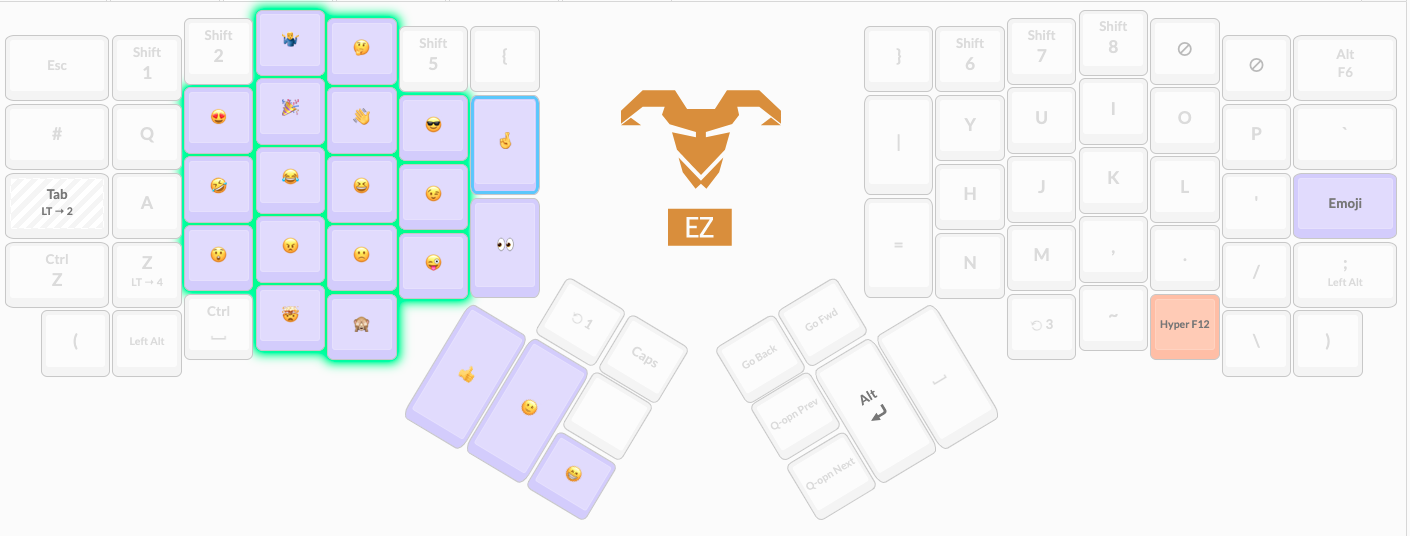
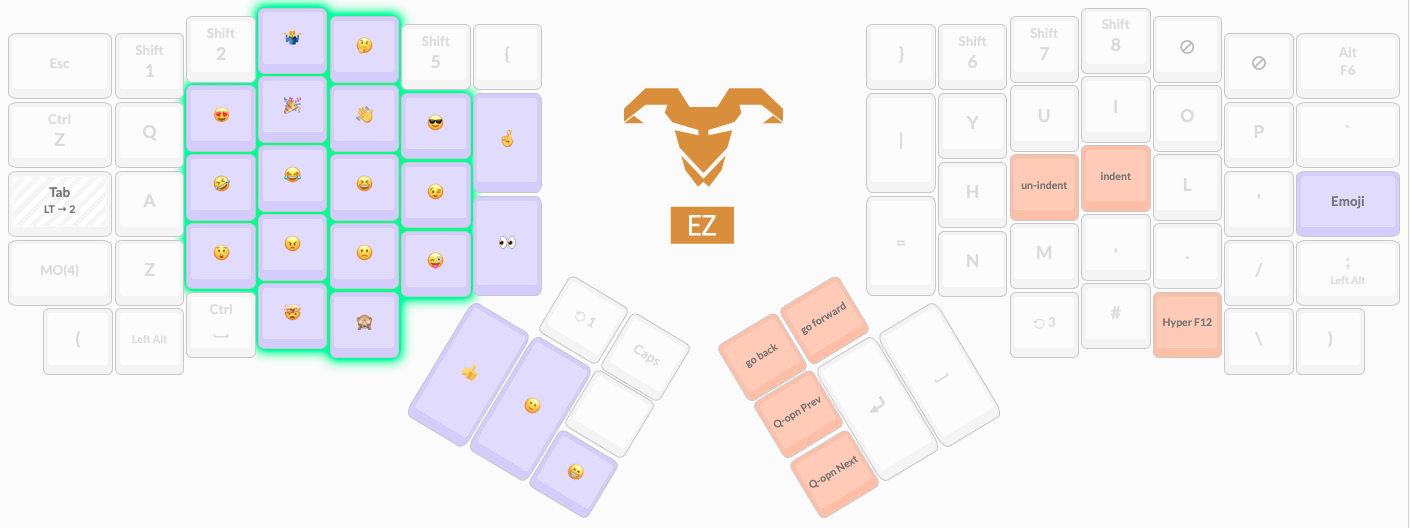
arrow keys on layer0, update docs

diff --git a/keyboards/ergodox_ez/keymaps/stoneman/keymap.c b/keyboards/ergodox_ez/keymaps/stoneman/keymap.c
@@ -17,6 +17,10 @@
 #define KC_HYPER_F13 LALT(LCTL(LGUI(LSFT(KC_F13))))
 #define KC_HYPER_F14 LALT(LCTL(LGUI(LSFT(KC_F14))))
 #define KC_HYPER_F15 LALT(LCTL(LGUI(LSFT(KC_F15))))
+#define KC_GO_BACK LALT(LGUI(LSFT(KC_LEFT)))
+#define KC_GO_FWD LALT(LGUI(LSFT(KC_RIGHT)))
+#define KC_UNINDENT LCTL(LALT(LGUI(LSFT(KC_LEFT))))
+#define KC_INDENT LCTL(LALT(LGUI(LSFT(KC_RIGHT))))
 
 enum custom_keycodes {
     ALT_TAB = SAFE_RANGE,
@@ -59,9 +63,9 @@ const uint16_t PROGMEM keymaps[][MATRIX_ROWS][MATRIX_COLS] = {
     LT(2,KC_TAB),   KC_A,           KC_S,           KC_D,           KC_F,           KC_G,                                                                           KC_H,           KC_J,           KC_K,           KC_L,           KC_QUOTE,       LGUI_T(KC_MINUS),
     MO_4,           KC_Z,           KC_X,           KC_C,           KC_V,           KC_B,           KC_NONUS_TILD,                                  KC_EQUAL,       KC_N,           KC_M,           KC_COMMA,       KC_DOT,         KC_SLASH,       LALT_T(KC_SCOLON),
     KC_LPRN,        KC_LALT,        LCTL(KC_SPACE), KC_LGUI,        KC_LCTRL,                                                                                                       MO(3),          KC_LALT_HASH,  KC_HYPER_F10,    KC_NONUS_BSLASH,KC_RPRN,
-                                                                                                    MO(1),          KC_CAPSLOCK,    LALT(LGUI(LSFT(KC_LEFT))),LALT(LGUI(LSFT(KC_RIGHT))),
-                                                                                                                    KC_TRANSPARENT, KC_F16,
-                                                                                    KC_LSHIFT,      KC_BSPACE,      KC_DELETE,      KC_F17,         KC_ENTER,       KC_SPACE
+                                                                                                    MO(1),          KC_CAPSLOCK,    KC_LEFT,        KC_RIGHT,
+                                                                                                                    KC_TRANSPARENT, KC_UP,
+                                                                                    KC_LSHIFT,      KC_BSPACE,      KC_DELETE,      KC_DOWN,        KC_ENTER,       KC_SPACE
   ),
   [1] = LAYOUT_ergodox_pretty(
     RESET,          KC_F1,          KC_F2,          KC_F3,          KC_F4,          KC_F5,          LALT(KC_PSCREEN),                               KC_TRANSPARENT, KC_F6,          KC_F7,          KC_F8,          KC_F9,          KC_F10,         KC_F11,
@@ -76,12 +80,12 @@ const uint16_t PROGMEM keymaps[][MATRIX_ROWS][MATRIX_COLS] = {
   [2] = LAYOUT_ergodox_pretty(
     KC_TRANSPARENT, KC_TRANSPARENT, KC_TRANSPARENT, EMOJI_SHRUG,    EMOJI_THINKING, KC_TRANSPARENT, KC_TRANSPARENT,                                 KC_TRANSPARENT, KC_TRANSPARENT, KC_TRANSPARENT, KC_TRANSPARENT, KC_TRANSPARENT, KC_TRANSPARENT, KC_TRANSPARENT,
     KC_TRANSPARENT, KC_TRANSPARENT, EMOJI_HEARTS,   EMOJI_TADA,     EMOJI_WAVE,     EMOJI_COOL,     EMOJI_FINGERS_X,                                KC_TRANSPARENT, KC_TRANSPARENT, KC_TRANSPARENT, KC_TRANSPARENT, KC_TRANSPARENT, KC_TRANSPARENT, KC_TRANSPARENT,
-    KC_TRANSPARENT, KC_TRANSPARENT, EMOJI_ROFL,     EMOJI_JOY,      EMOJI_LAUGH,    EMOJI_WINK,                                                                     KC_TRANSPARENT, KC_TRANSPARENT, KC_TRANSPARENT, KC_TRANSPARENT, KC_TRANSPARENT, KC_EMOJI,
+    KC_TRANSPARENT, KC_TRANSPARENT, EMOJI_ROFL,     EMOJI_JOY,      EMOJI_LAUGH,    EMOJI_WINK,                                                                     KC_TRANSPARENT, KC_UNINDENT,    KC_TRANSPARENT, KC_INDENT,      KC_TRANSPARENT, KC_EMOJI,
     KC_TRANSPARENT, KC_TRANSPARENT, EMOJI_SHOCK,    EMOJI_ANGRY,    EMOJI_SAD,      EMOJI_WINKTNG,  EMOJI_EYES,                                     KC_TRANSPARENT, KC_TRANSPARENT, KC_TRANSPARENT, KC_TRANSPARENT, KC_TRANSPARENT, KC_TRANSPARENT, KC_TRANSPARENT,
     KC_TRANSPARENT, KC_TRANSPARENT, KC_TRANSPARENT, EMOJI_MINDBLO,  EMOJI_SEENOEVIL,                                                                                                KC_TRANSPARENT, KC_TRANSPARENT, KC_HYPER_F12,   KC_TRANSPARENT, KC_TRANSPARENT,
-                                                                                                    KC_TRANSPARENT, KC_TRANSPARENT, KC_TRANSPARENT, KC_TRANSPARENT,
-                                                                                                                    KC_TRANSPARENT, KC_TRANSPARENT,
-                                                                                    EMOJI_THUMBS_UP,EMOJI_SMILE,    EMOJI_GRIN,     KC_TRANSPARENT, LALT(KC_ENTER), KC_TRANSPARENT
+                                                                                                    KC_TRANSPARENT, KC_TRANSPARENT, KC_GO_BACK,     KC_GO_FWD,
+                                                                                                                    KC_TRANSPARENT, KC_F16,
+                                                                                    EMOJI_THUMBS_UP,EMOJI_SMILE,    EMOJI_GRIN,     KC_F17,         KC_TRANSPARENT, KC_TRANSPARENT
   ),
   [3] = LAYOUT_ergodox_pretty(
     KC_TRANSPARENT, KC_1,           KC_2,           KC_3,           KC_4,           KC_5,           KC_TRANSPARENT,                                 KC_TRANSPARENT, KC_6,           KC_7,           KC_8,           KC_9,           KC_0,           KC_TRANSPARENT,
@@ -96,7 +100,7 @@ const uint16_t PROGMEM keymaps[][MATRIX_ROWS][MATRIX_COLS] = {
   [4] = LAYOUT_ergodox_pretty(
     KC_TRANSPARENT, KC_TRANSPARENT, KC_TRANSPARENT, KC_TRANSPARENT, KC_TRANSPARENT, KC_TRANSPARENT, KC_TRANSPARENT,                                 KC_TRANSPARENT, KC_TRANSPARENT, KC_TRANSPARENT, KC_TRANSPARENT, KC_TRANSPARENT, KC_TRANSPARENT, KC_TRANSPARENT,
     KC_TRANSPARENT, KC_TRANSPARENT, KC_TRANSPARENT, KC_TRANSPARENT, KC_TRANSPARENT, KC_TRANSPARENT, KC_HOME,                                        KC_PGUP,        KC_TRANSPARENT, KC_TRANSPARENT, KC_UP,          KC_TRANSPARENT, KC_TRANSPARENT, KC_TRANSPARENT,
-    KC_TRANSPARENT, KC_TRANSPARENT, KC_TRANSPARENT, ALT_SHIFT_GRV,  ALT_GRV,        KC_TRANSPARENT,                                                                 LGUI(KC_LEFT),  KC_LEFT,        KC_DOWN,        KC_RIGHT,       LGUI(KC_RIGHT), KC_TRANSPARENT,
+    KC_TRANSPARENT, KC_TRANSPARENT, KC_TRANSPARENT, ALT_SHIFT_GRV,  ALT_GRV,        KC_TRANSPARENT,                                                                 KC_TRANSPARENT, KC_LEFT,        KC_DOWN,        KC_RIGHT,       KC_TRANSPARENT, KC_TRANSPARENT,
     KC_TRANSPARENT, MACRO_CHZ,      KC_TRANSPARENT, ALT_SHIFT_TAB,  ALT_TAB,        KC_TRANSPARENT, KC_END,                                         KC_PGDOWN,      KC_TRANSPARENT, KC_TRANSPARENT, KC_TRANSPARENT, KC_TRANSPARENT, KC_TRANSPARENT, KC_TRANSPARENT,
     KC_TRANSPARENT, KC_TRANSPARENT, KC_TRANSPARENT, KC_TRANSPARENT, KC_TRANSPARENT,                                                                                                 KC_LALT,        KC_TRANSPARENT, KC_HYPER_F14,   KC_TRANSPARENT, KC_TRANSPARENT,
                                                                                                     KC_TRANSPARENT, KC_TRANSPARENT, KC_TRANSPARENT, KC_TRANSPARENT,

diff --git a/readme.md b/readme.md
@@ -28,6 +28,8 @@ The source for my layout can be found within: [keyboards/ergodox_ez/keymaps/ston
           - `left_command` to `left_control`
           - `left_control` to `left_command`
   - [`Raw HID`](https://docs.qmk.fm/#/feature_rawhid) is used by my [Mac Daemon](https://github.com/stoneman/micmon) to set RGB key animation when [Zoom](https://zoom.us/) is running to remind me to position/switch on my mic.
+  - [AutoHotkey](https://www.autohotkey.com/) on Windows converts `Alt+Left` and `Alt+Right` to `Ctrl+Left` and `Ctrl+Right` for moving the cursor back/forward one word, which matches the Mac behaviour.
+  - AutoHotkey on Windows converts `Ctrl+Left` and `Ctrl+Right` to `Home` and `End` for moving the cursor to the start/end of the line, which matches the Mac behaviour.
       
 ### Layer 0 - Main
 
@@ -40,12 +42,10 @@ Key LEDs are a light purple in the center of the key pads fading out to a cool b
  - `Alt+F6` is `Mute Mic` for Zoom on the Mac and [Discord](https://discordapp.com/) on the PC.
  - When holding `; / Left Alt`, `Alt+F6` becomes the `Layer 5` key.
  - The top row numbers are "shifted" by default, except for the keys in position `9` and `0` which are `[` and `]`. When `Shift` is held, the top row numbers revert to their digit values.
- - The `ALT↯TAB` and `ALT↯+TAB` keys are used for switching windows, natively on Windows and using [Alt-Tab](https://github.com/lwouis/alt-tab-macos) on the Mac.
- - Alt-Tab on the Mac also uses the `ALT↯GRV` and `ALT↯+GRV` keys to cycle through windows of the currently focused window.
  - The `Caps Lock` key delays it's release by 200ms. This is because MacOS assumes you were only joking if you tap it too quickly (seriously 🤦)
  - `Ctrl+Z` - Undo, it's so nice having a key for this.
- - The `Enter` key on this left hand cluster is handy when my right hand is on the mouse.
  - `Ctrl+Space` is the Mac Spotlight hotkey.
+ - `Hyper F10` - is the hotkey assigned to [Doxaid](https://github.com/stoneman/doxaid) which displays a layout map for the currently active layout.
  
 ### Layer 1 - Func
 
@@ -69,10 +69,9 @@ Emoji and more keys that I occasionally want when Layer 0 is active.
 
 LEDs highlight groups of keys which perform a similar function.
 
-![Layer 2](images/layer_2.png)
+![Layer 2](images/layer_2.png)🙈
 
  - `Ctrl+Cmd+Space` is the MacOS emoji hotkey. AutoHotkey on the PC maps it to the Windows emoji hotkey (`Win+.`).
- - `Alt+Enter` saves stretching for the `Alt` and `Enter` keys with Layer 0.
  - For the Unicode input to work on both Windows and Mac, I have:
     - [WinCompose](https://github.com/samhocevar/wincompose) running on Windows.
     - The `Unicode Hex Input` keyboard layout enabled on the Mac.
@@ -80,10 +79,14 @@ LEDs highlight groups of keys which perform a similar function.
     - Code which sets the Unicode format to Mac-style whenever a Raw HID command is received.
     - Code which sends the Mac "switch to next input type" shortcut whenever the Emoji layer is enabled or disabled. Since I have only two input types, the effect is that `Unicode Hex Input` is enabled for the Emoji layer and `British - PC` is enabled for all others. 
     - Code which uses QMK's Unicode input method for Windows when Windows-style Unicode is set and which sends the relevant hex strings when Mac-style Unicode is set (I couldn't get QMK's Unicode input method for Mac to work with Unicode characters in the emoji range).
+ - Nothing to do with emoji, but the following have also been added to this layer:
+    - `"go back"` and `"go forward"` are `Go -> Back` and `Go -> Forward` in VSCode.
+    - `"Q-opn Prev"` and `"Q-opn Next"` navigate back/forward through the previously opened files in VSCode.
+    - `"un-indent"` nad `indent"` unindent/indent the current/selected line(s) in VSCode.
 
 ### Layer 3 - Num
  
-Number, volume and arrow keys.
+Number & volume keys.
 
 LEDs highlight groups of keys which perform a similar function.
 
@@ -97,8 +100,9 @@ LEDs highlight groups of keys which perform a similar function.
 
 ![Layer 4](images/layer_4.png)
 
-  - The `Alt+Left` and `Alt+Right` keys are for moving the cursor back/forward one word on the Mac. [AutoHotkey](https://www.autohotkey.com/) converts to `Ctrl+Left` and `Ctrl+Right` for the same behaviour on Windows.
-  - The `Ctrl+Left` and `Ctrl+Right` keys are for moving the cursor to the start/end of the line on the Mac. AutoHotkey converts to `Home` and `End` for the same behaviour on Windows.
+  - The `ALT↯TAB` and `ALT↯+TAB` keys are used for switching windows, natively on Windows and using [Alt-Tab](https://github.com/lwouis/alt-tab-macos) on the Mac.
+  - Alt-Tab on the Mac also uses the `ALT↯GRV` and `ALT↯+GRV` keys to cycle through windows of the currently focused window.
+  - There are also arrow keys and a handily positioned `Alt` key on this layer.
   
 ### Layer 3 - Dota
 
